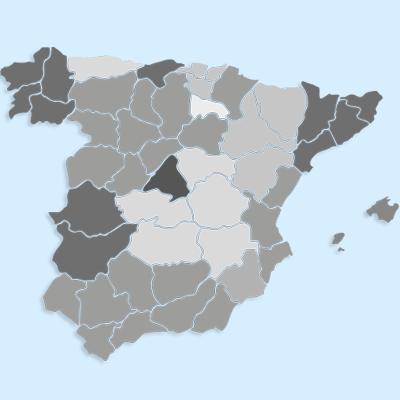
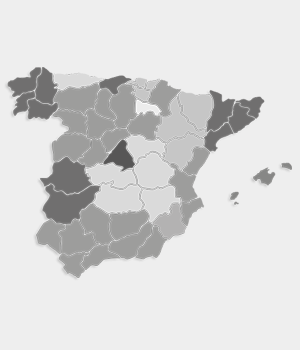
Mejorado el mapa

Changed region(s): [[0.0, 0.1143, 0.96, 0.9143], [0.84, 0.4571, 1.0, 0.5714], [0.75, 0.5429, 0.87, 0.6571]]

diff --git a/src/bntrip/vista/HomeWindow.java b/src/bntrip/vista/HomeWindow.java
@@ -87,16 +87,16 @@ public class HomeWindow extends javax.swing.JFrame {
         jPanel5.setLayout(new org.netbeans.lib.awtextra.AbsoluteLayout());
 
         buttonGroup1.add(jRadioButton1);
-        jPanel5.add(jRadioButton1, new org.netbeans.lib.awtextra.AbsoluteConstraints(50, 20, -1, -1));
+        jPanel5.add(jRadioButton1, new org.netbeans.lib.awtextra.AbsoluteConstraints(40, 50, -1, -1));
 
         buttonGroup1.add(jRadioButton2);
-        jPanel5.add(jRadioButton2, new org.netbeans.lib.awtextra.AbsoluteConstraints(230, 20, -1, -1));
+        jPanel5.add(jRadioButton2, new org.netbeans.lib.awtextra.AbsoluteConstraints(210, 90, -1, -1));
 
         buttonGroup1.add(jRadioButton3);
-        jPanel5.add(jRadioButton3, new org.netbeans.lib.awtextra.AbsoluteConstraints(130, 260, -1, -1));
+        jPanel5.add(jRadioButton3, new org.netbeans.lib.awtextra.AbsoluteConstraints(70, 220, -1, -1));
 
         buttonGroup1.add(jRadioButton4);
-        jPanel5.add(jRadioButton4, new org.netbeans.lib.awtextra.AbsoluteConstraints(160, 120, -1, -1));
+        jPanel5.add(jRadioButton4, new org.netbeans.lib.awtextra.AbsoluteConstraints(110, 120, -1, -1));
 
         jLabel1.setIcon(new javax.swing.ImageIcon(getClass().getResource("/images/mapa.png"))); // NOI18N
         jPanel5.add(jLabel1, new org.netbeans.lib.awtextra.AbsoluteConstraints(0, 0, 270, 290));
